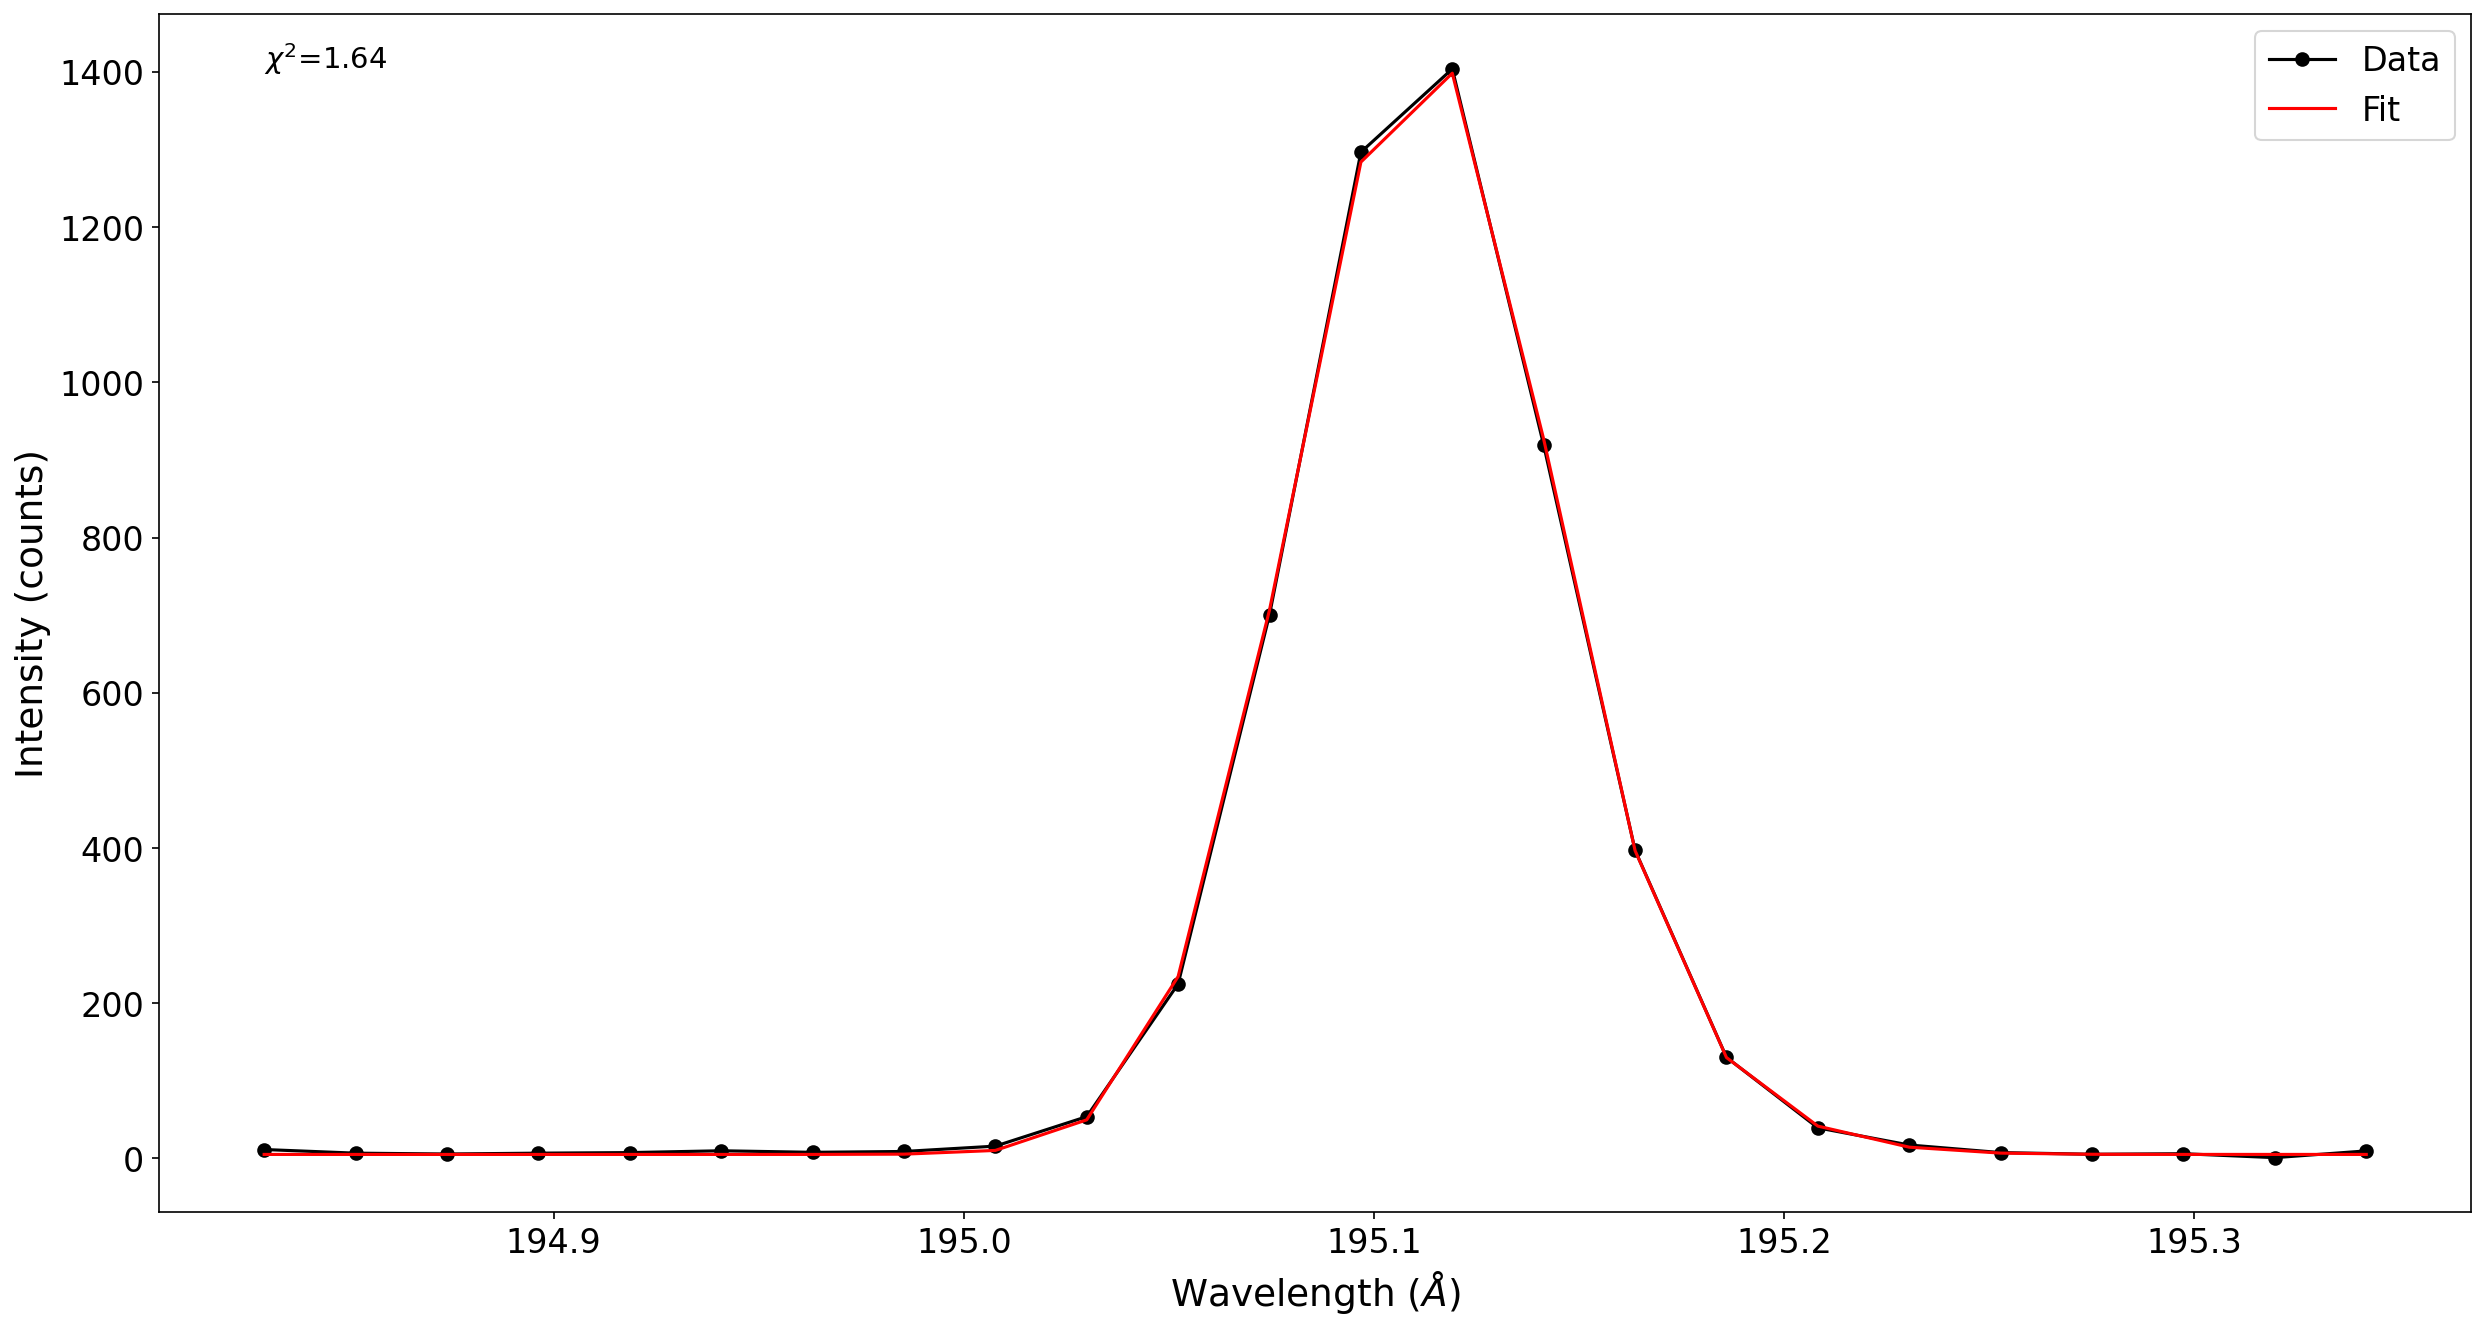
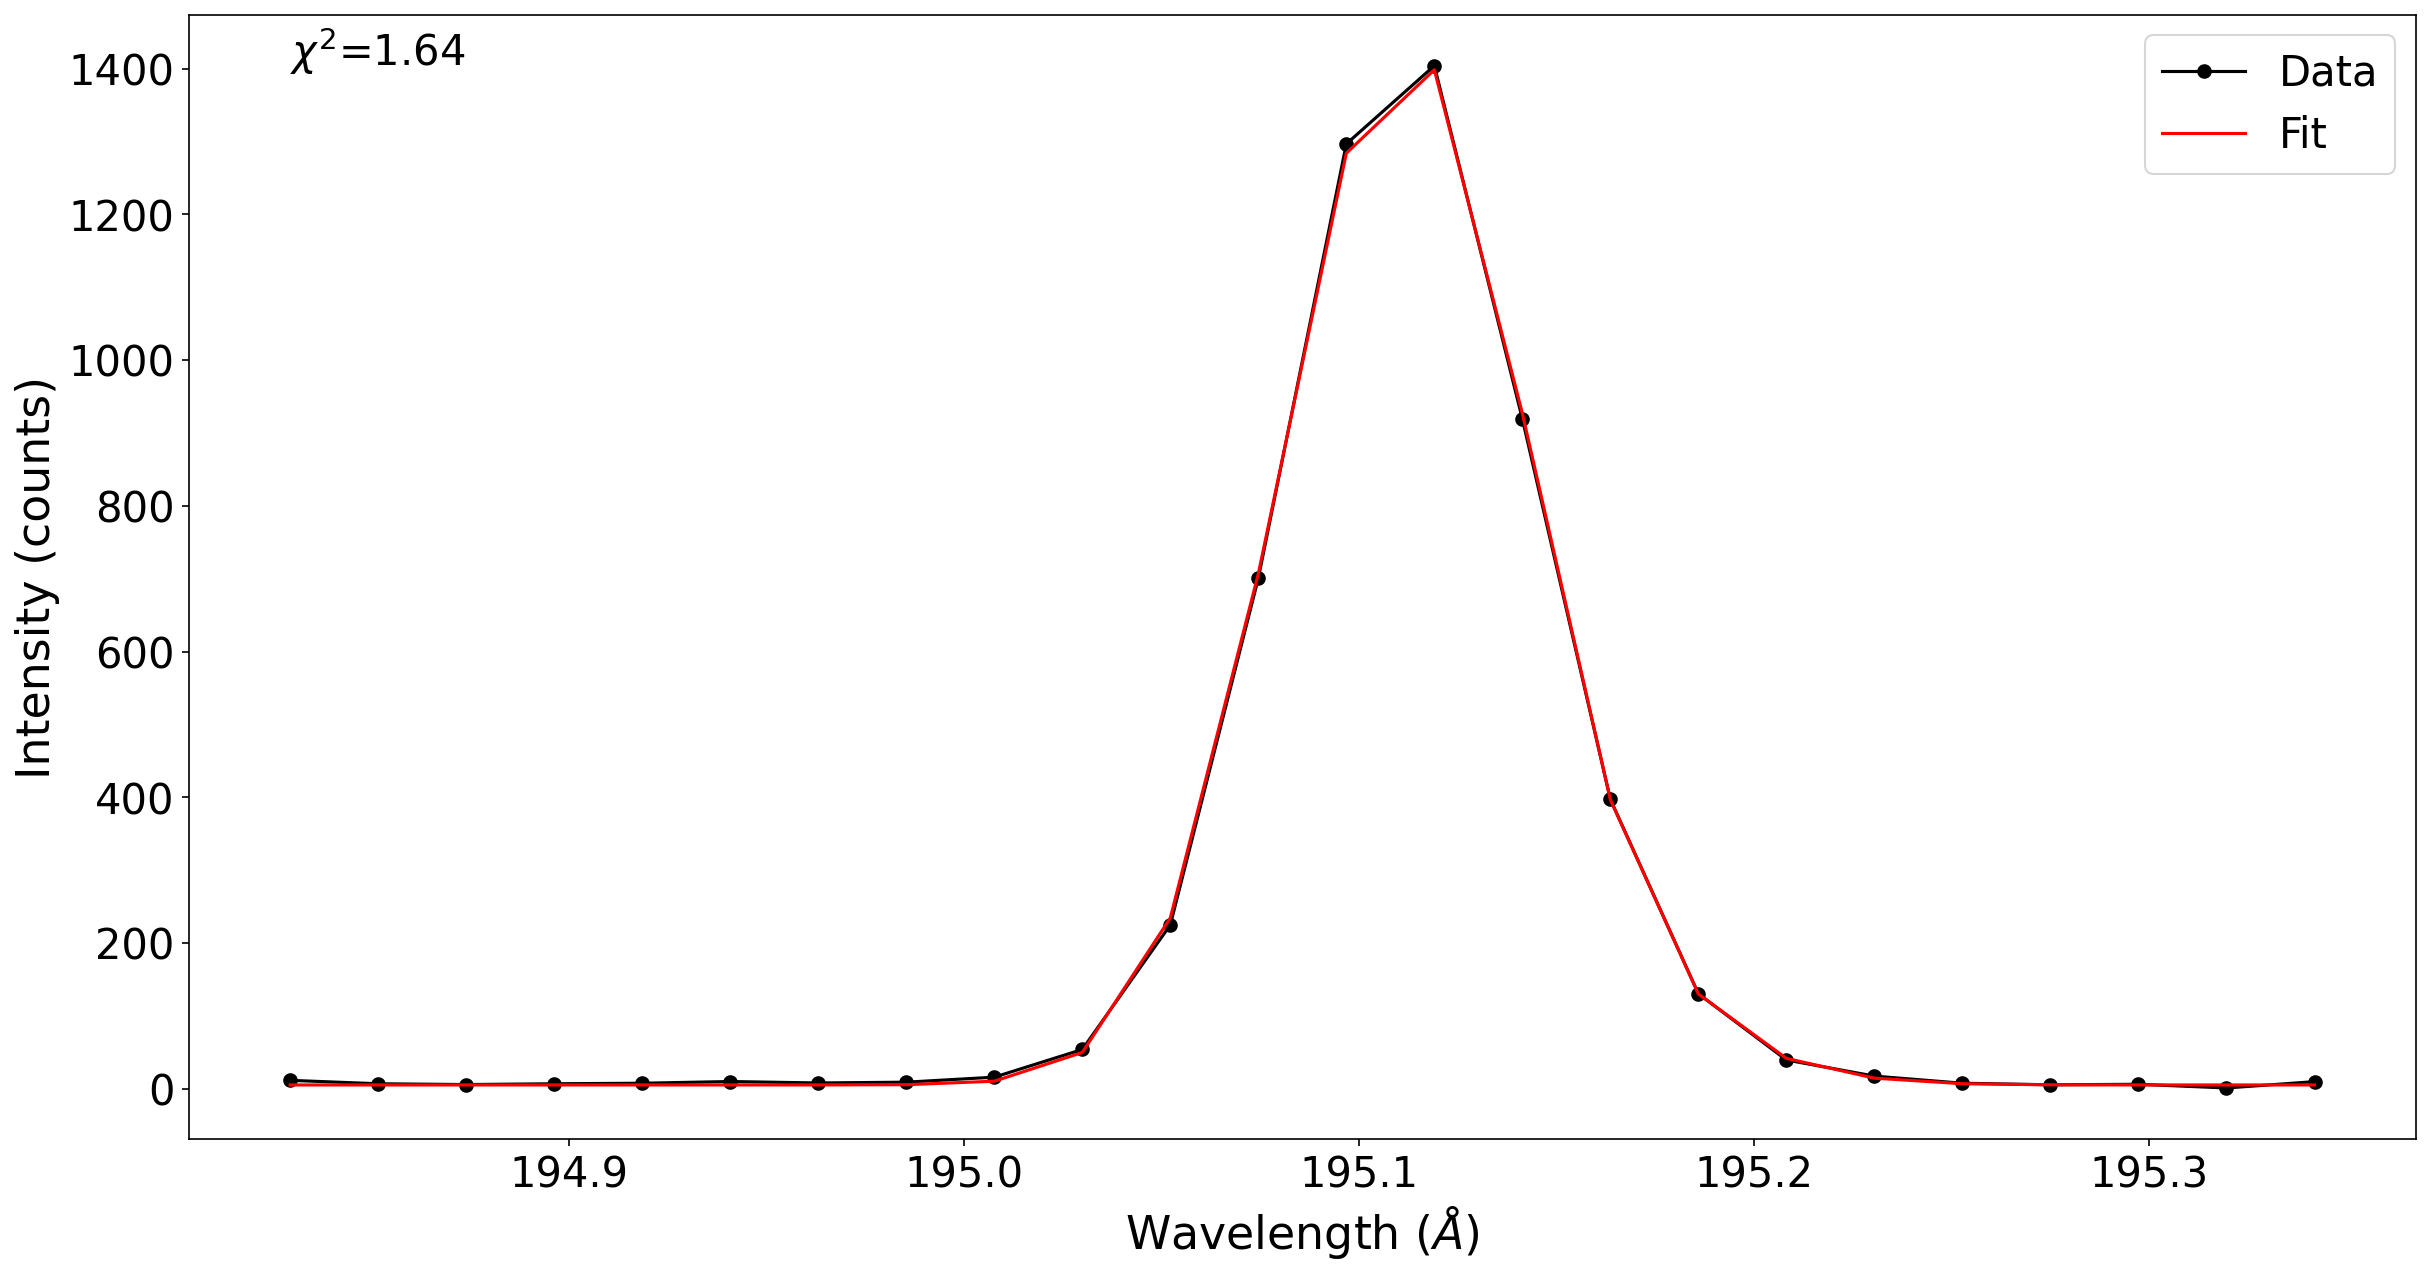
Change label and font sizes

diff --git a/2-pyEIS/eis_fit_raster.py b/2-pyEIS/eis_fit_raster.py
@@ -189,18 +189,18 @@ if __name__ == "__main__":
     scaled = np.log10(np.clip(raster, raster_range[0], raster_range[1]))
     plt.figure(figsize=(IMGnx, IMGny))
     plt.subplot(121)
-    plt.tick_params(labelsize=16)
+    plt.tick_params(labelsize=20)
     plt.imshow(scaled, origin="lower", aspect="auto", cmap="gray")
-    plt.title(date_obs, fontsize=18)
+    plt.title(date_obs, fontsize=22)
     fits = fit.fit
     fit = fits["int"][::, ::, (fits["component"] - 1)]
     raster_range = np.percentile(fit, (1, 99))
     raster_range = raster_range[1] * np.array([1.0e-2, 1.0])
     scaled = np.log10(np.clip(fit, raster_range[0], raster_range[1]))
     plt.subplot(122)
-    plt.tick_params(labelsize=16)
+    plt.tick_params(labelsize=20)
     plt.imshow(scaled, origin="lower", aspect="auto", cmap="gray")
-    plt.title("Fit", fontsize=18)
+    plt.title("Fit", fontsize=22)
     fig = plt.gcf()
     plt.show()
     fig.savefig("spectra_raster_fit.png", bbox_inches="tight", dpi=150)

diff --git a/2-pyEIS/eis_fit_profile.py b/2-pyEIS/eis_fit_profile.py
@@ -171,11 +171,11 @@ if __name__ == "__main__":
     plt.figure()
     plt.plot(wave, ints, "k-o", label="Data")
     plt.plot(wave, fity, "r-", label="Fit")
-    plt.xlabel("Wavelength ($\AA$)", fontsize=18)
-    plt.ylabel("Intensity (counts)", fontsize=18)
-    plt.legend(loc="upper right", fontsize=16)
-    plt.tick_params(labelsize=16)
-    plt.text(min(wave), max(ints), "$\chi^2$=" + str(chi2), fontsize=14)
+    plt.xlabel("Wavelength ($\AA$)", fontsize=22)
+    plt.ylabel("Intensity (counts)", fontsize=22)
+    plt.legend(loc="upper right", fontsize=20)
+    plt.tick_params(labelsize=20)
+    plt.text(min(wave), max(ints), "$\chi^2$=" + str(chi2), fontsize=20)
     plt.tight_layout()
     fig = plt.gcf()
     plt.show()
